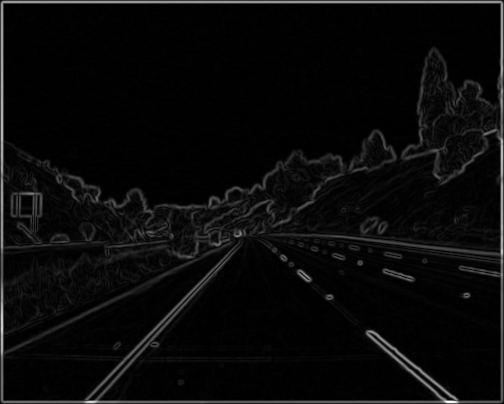
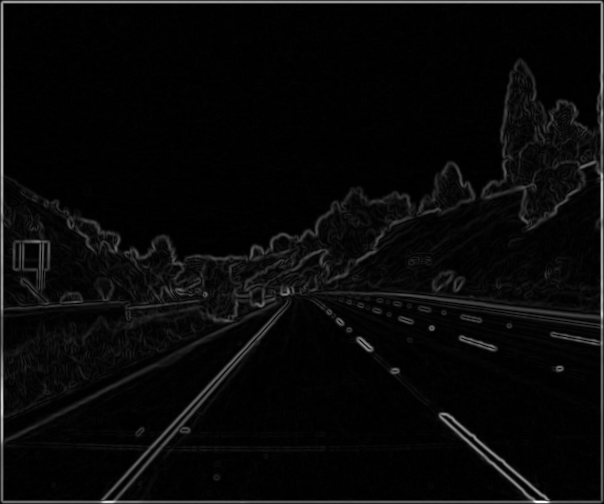
w

Changed region(s): [[0.0, 0.0, 1.0, 0.6238], [0.0, 0.3267, 1.0, 1.0], [0.0, 0.7129, 0.0298, 0.8614]]

diff --git a/hough_transform.py b/hough_transform.py
@@ -3,6 +3,7 @@ import matplotlib.pyplot as plt
 import numpy as np
 from math import *
 
+# this is cartesian
 def add_to_fetaure_space_linear(p, feature_space, M_MAX = 20, B_COEFF = 0.1):
 	#### drawing the y = mx + b point represantation in the fateure space
 
@@ -27,6 +28,60 @@ def add_to_fetaure_space_linear(p, feature_space, M_MAX = 20, B_COEFF = 0.1):
 
 	return feature_space
 
+def get_hough_space_from_image(img, shape = (100, 300), val = 1):
+	hough_space = np.zeros(shape)
+	for i, row in enumerate(img):
+		for j, pixel in enumerate(row):
+			if pixel != val : continue
+			hough_space = add_to_hough_space_polar((i,j), hough_space)
+	return hough_space
+
+
+def add_to_hough_space_polar(p, feature_space):
+	space = np.linspace(0, pi, len(feature_space))
+	d_max = len(feature_space[0]) / 2
+
+	for i in range(len(space)):
+		theta = space[i]
+		d = int(p[0] * sin(theta) + p[1] * cos(theta)) + d_max
+
+		if (d >= d_max * 2) : continue
+
+		feature_space[i, d] += 1
+	return feature_space
+
+# builds a line from d, theta where the line is
+# d = sin(theta) * x + cos(theta) * y
+def build_line_polar(theta, d, shape = (100, 100), val = 1):
+	img = np.zeros(shape)
+	for x in range(shape[0]):
+		y = int((d - x * cos(theta)) / sin(theta))
+		if isnan(y):
+			print "########", theta, d, x
+			continue
+		if y < 0 or y >= shape[1] : continue
+		print y, x
+		img[y,x] = val
+	return img
+
+def coord_to_polar(coord, hough_space):
+	space = np.linspace(0, pi, len(hough_space))
+	theta = space[coord[0]]
+	d = coord[1] - len(hough_space[0]) / 2
+	return theta, d
+
+# this is cartesian
+def build_line(shape, m, b, val = 99):
+	im = np.zeros(shape)
+	for x in range(shape[1]):
+		point_y = int(m * x + b)
+		if point_y < 0 or point_y >= shape[0] : continue
+
+		im[point_y][x] = val
+	return im
+
+
+# this is cartesian
 def space_point_to_line(p, feature_space, M_MAX = 20, B_COEFF = 0.1):
 	space = np.linspace(- M_MAX, M_MAX, len(feature_space))
 	m = space[p[0]]
@@ -39,18 +94,8 @@ def get_coordinates(feature_space, val):
 	coords = np.where(feature_space == val)
 
 	for i in range(len(coords[0])):
-
 		points.append((coords[0][i], coords[1][i]))
 	return points
-
-def build_line(shape, m, b, val = 99):
-	im = np.zeros(shape)
-	for x in range(shape[1]):
-		point_y = int(m * x + b)
-		if point_y < 0 or point_y >= shape[0] : continue
-
-		im[point_y][x] = val
-	return im
 
 
 def run():

diff --git a/edge_detection.py b/edge_detection.py
@@ -15,6 +15,7 @@ def gaussian_dist(m, sigma, size):
 	return dist
 
 img = np.array(misc.imresize(misc.imread('solidYellowCurve2.jpg', mode = 'L'), (500, 600)), dtype="float32")
+#img = np.array(misc.imresize(misc.imread('cat3.jpg', mode = 'L'), (500, 600)), dtype="float32")
 img = img / img.max()
 #img = img - img.max()/2
 
@@ -39,6 +40,8 @@ kernel_prewitt = np.array([
 	])
 
 
+
+"""
 uni_blur = np.ones((5,5))
 g1 = gaussian_dist(0, 5, 5)
 g2 = gaussian_dist(0, 10, 10)
@@ -55,7 +58,7 @@ plt.imshow(g3, interpolation="none")
 
 plt.show()
 exit()
-
+"""
 
 my_kernel1 = kernel_sobel
 
@@ -69,7 +72,6 @@ misc.imsave("edge1.png", out)
 
 #plt.imshow(out)
 
-"""
 g = gaussian_dist(0, 5, 10)
 my_kernel3 = signal.correlate(g, kernel_sobel)
 
@@ -80,16 +82,24 @@ my_kernel4 = signal.correlate(g, kernel_sobel)
 
 
 
-out1 = np.sqrt(signal.correlate(img, my_kernel1)**2 + signal.correlate(img, my_kernel1.T)**2)
-out2 = np.sqrt(signal.correlate(img, my_kernel2)**2 + signal.correlate(img, my_kernel2.T)**2)
-out3 = np.sqrt(signal.correlate(img, my_kernel3)**2 + signal.correlate(img, my_kernel3.T)**2)
-out4 = np.sqrt(signal.correlate(img, my_kernel4)**2 + signal.correlate(img, my_kernel4.T)**2)
+edges = np.sqrt(signal.correlate(img, my_kernel3)**2 + signal.correlate(img, my_kernel3.T)**2)
+#out2 = np.sqrt(signal.correlate(img, my_kernel2)**2 + signal.correlate(img, my_kernel2.T)**2)
+#out3 = np.sqrt(signal.correlate(img, my_kernel3)**2 + signal.correlate(img, my_kernel3.T)**2)
+#out4 = np.sqrt(signal.correlate(img, my_kernel4)**2 + signal.correlate(img, my_kernel4.T)**2)
+
+vertical_edges = signal.correlate(img, kernel_prewitt)
+horizontal_edges = signal.correlate(img, kernel_prewitt.T)
 
 
 
+plt.subplot(1,1,1)
+plt.imshow(edges, interpolation="none")
+plt.show()
 
-plt.subplot(4,1,1)
-plt.imshow(out1, interpolation="none")
+
+plt.subplot(1,2,2)
+plt.imshow(ver, interpolation="none")
+"""
 plt.subplot(4,1,2)
 plt.imshow(out2, interpolation="none")
 plt.subplot(4,1,3)
@@ -97,12 +107,10 @@ plt.imshow(out3, interpolation="none")
 plt.subplot(4,1,4)
 plt.imshow(out4, interpolation="none")
 """
-#plt.show()
+plt.show()
 
 
 
-
-exit()
 
 
 

diff --git a/line_detection_polar.py b/line_detection_polar.py
@@ -1,0 +1,46 @@
+from scipy import misc, signal, stats
+import matplotlib.pyplot as plt 
+import numpy as np
+from math import *
+from hough_transform import *
+
+img = np.array(misc.imresize(misc.imread('edge1.png', mode = 'L'), (100, 100)), dtype="float32")
+img = img[5:-5, 5:-5]
+
+x = np.zeros(img.shape)
+x[img > 20] += 1
+img = x
+
+
+
+#img = np.zeros((100, 100))
+#img[10,50] = 1
+#img[50, 70] = 1
+
+hough_space = get_hough_space_from_image(img, val=1)
+
+val_set = list(set(hough_space.flatten()))
+highest_vals = val_set[-5:]
+
+img_lines = np.zeros(img.shape)
+for val in highest_vals:
+	for coord in get_coordinates(hough_space, val):
+		theta, d = coord_to_polar(coord, hough_space)
+		print '->', coord, theta, d
+		img_lines += build_line_polar(theta, d, shape = img_lines.shape, val=5)
+		#img_lines += build_line_polar(1.1, 60, shape = img_lines.shape)
+		#img_lines += build_line_polar(1, 70, shape = img_lines.shape)
+
+img_lines += img
+
+plt.subplot(1,3,1)
+plt.imshow(img)
+
+plt.subplot(1,3,2)
+plt.imshow(hough_space)
+
+plt.subplot(1,3,3)
+plt.imshow(img_lines)
+
+plt.show()
+

diff --git a/gaussian_noise.py b/gaussian_noise.py
@@ -56,7 +56,7 @@ def unsharp_filter(n = 10, b = 1, c = 2):
 
 
 FNAME1 = 'cat1.jpg'
-FNAME2 = 'cat2.jpg'
+FNAME2 = 'solidYellowCurve2.jpg'
 W = 500
 H = 200
 
@@ -69,10 +69,23 @@ img2 = misc.imresize(img2, (H, W))
 #im = gnoise(img1, sigma = 0)
 
 my_filter = np.array([[1,1,1,1,1],
-					[1,2,2,2,1],
-					[1,2,5,2,1],
-					[1,2,2,2,1],
+					[1,1,1,1,1],
+					[1,1,1,1,1],
+					[1,1,1,1,1],
 					[1,1,1,1,1]])
+
+im = signal.correlate(img2, my_filter)
+plt.subplot(2,1,1)
+plt.imshow(img2)
+plt.subplot(2,1,2)
+plt.imshow(im)
+plt.show()
+exit()
+
+
+
+
+
 
 my_filter_gaussian = gaussian_dist(0, 1, 10)
 my_unsharp_filter =  unsharp_filter(3, 1, 2.5)

diff --git a/skimage_hough_test.py b/skimage_hough_test.py
@@ -1,0 +1,22 @@
+from skimage.transform import (hough_line, hough_line_peaks,
+                               probabilistic_hough_line)
+import numpy as np
+import matplotlib.pyplot as plt
+
+
+img = np.zeros((100, 150), dtype=bool)
+img[30, :] = 1
+img[:, 65] = 1
+img[35:45, 35:50] = 1
+
+
+for i in range(90):
+	img[i, i] = 1
+img += np.random.random(img.shape) > 0.95
+
+
+out, angles, d = hough_line(img)
+print d
+
+plt.imshow(out)
+plt.show()
